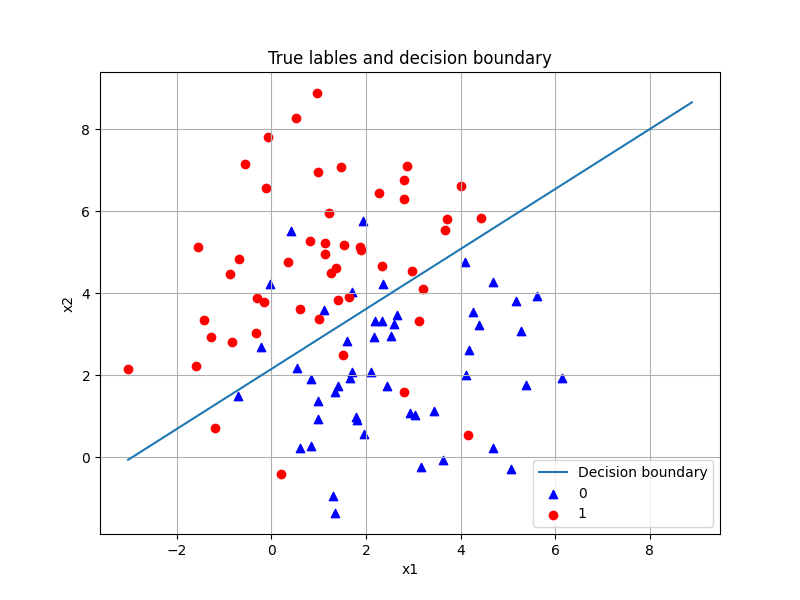
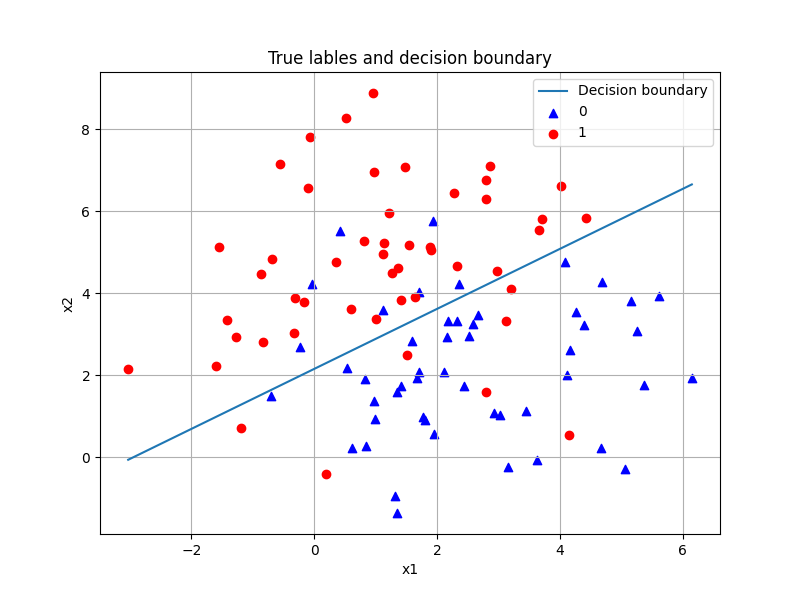
q2 on the way

diff --git a/HW2/hw2/q2.py b/HW2/hw2/q2.py
@@ -1,0 +1,31 @@
+import numpy as np
+import matplotlib.pyplot as plt
+
+def softmaxRegGA(X, Y, alpha, nIters, N,M,K):
+    w = np.zeros((M,K))
+    indic = np.array([[1 if Y[i] == m else 0 for m in range(K-1)]
+                     for i in range(N)])
+    for iter in range(nIters):
+        denom = (1+np.sum(np.exp(X@w)[:, 0:K-1], axis=1)).reshape(-1,1)
+        p = np.exp(X@w[:,0:K-1])/denom
+        grad = X.T @ (indic - p)
+        w[:,0:K-1] += alpha*grad
+    return w
+
+def main():
+    #  Load data
+    q2_data = np.load('q2_data.npz')
+    q2_data_files = q2_data.files
+
+    q2x_train = np.array(q2_data[q2_data_files[0]])
+    q2x_test = np.array(q2_data[q2_data_files[1]])
+    q2y_train = np.array(q2_data[q2_data_files[2]])
+    q2y_test = np.array(q2_data[q2_data_files[3]])
+    N = q2x_train.shape[0]
+    M = q2x_train.shape[1]
+    K = int(max(q2y_test)[0])
+    
+    trained_weights = softmaxRegGA(q2x_train, q2y_train, 0.0005, 100, N, M, K)
+    print(trained_weights)
+if __name__=="__main__":
+    main()

diff --git a/HW2/hw2/q1.py b/HW2/hw2/q1.py
@@ -26,7 +26,7 @@ def main():
     # Then the coefficient correpsonding to this column is an intercept term.
     X = np.concatenate((np.ones((N, 1)), X), axis=1)
     w = weightsFromNewtonRaphson(X,Y,100)
-    xd = np.array([np.min(X), np.max(X)])
+    xd = np.array([np.min(X[:,1]), np.max(X[:,1])])
     b = -w[0,0]/w[2,0]
     m = -w[1,0]/w[2,0]
     yd = m*xd + b
